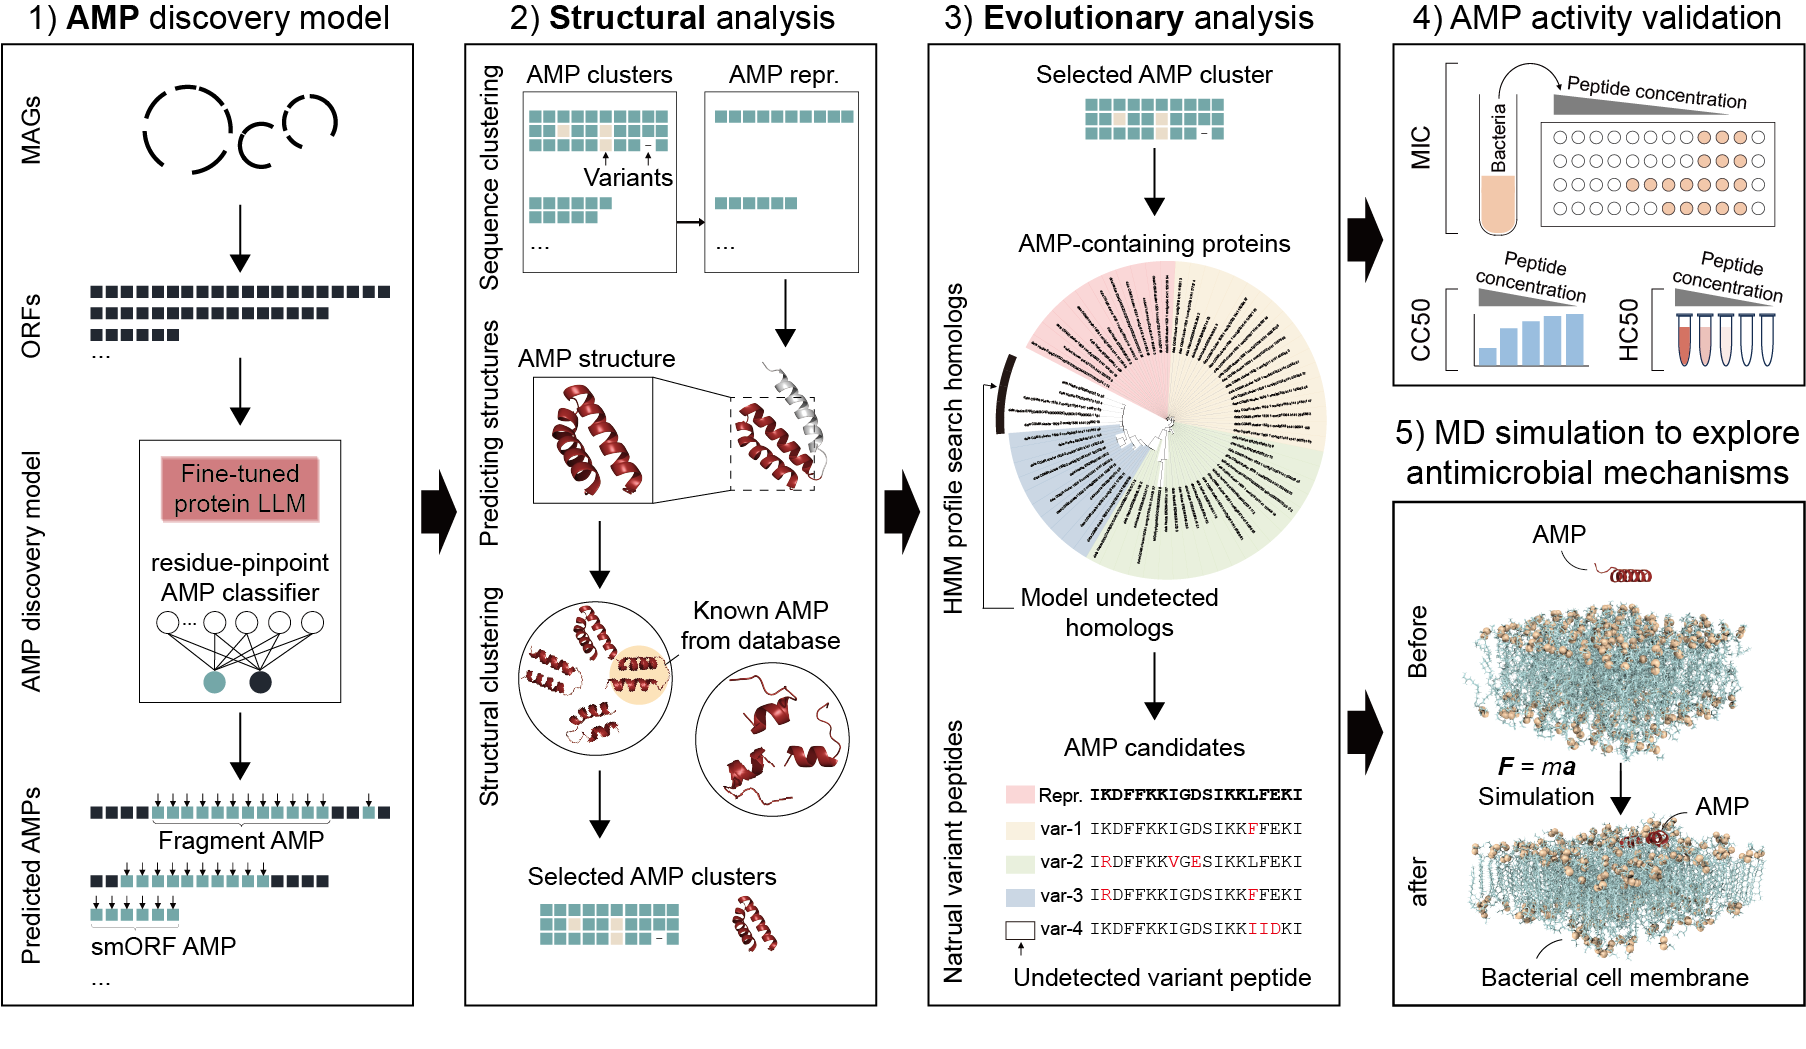
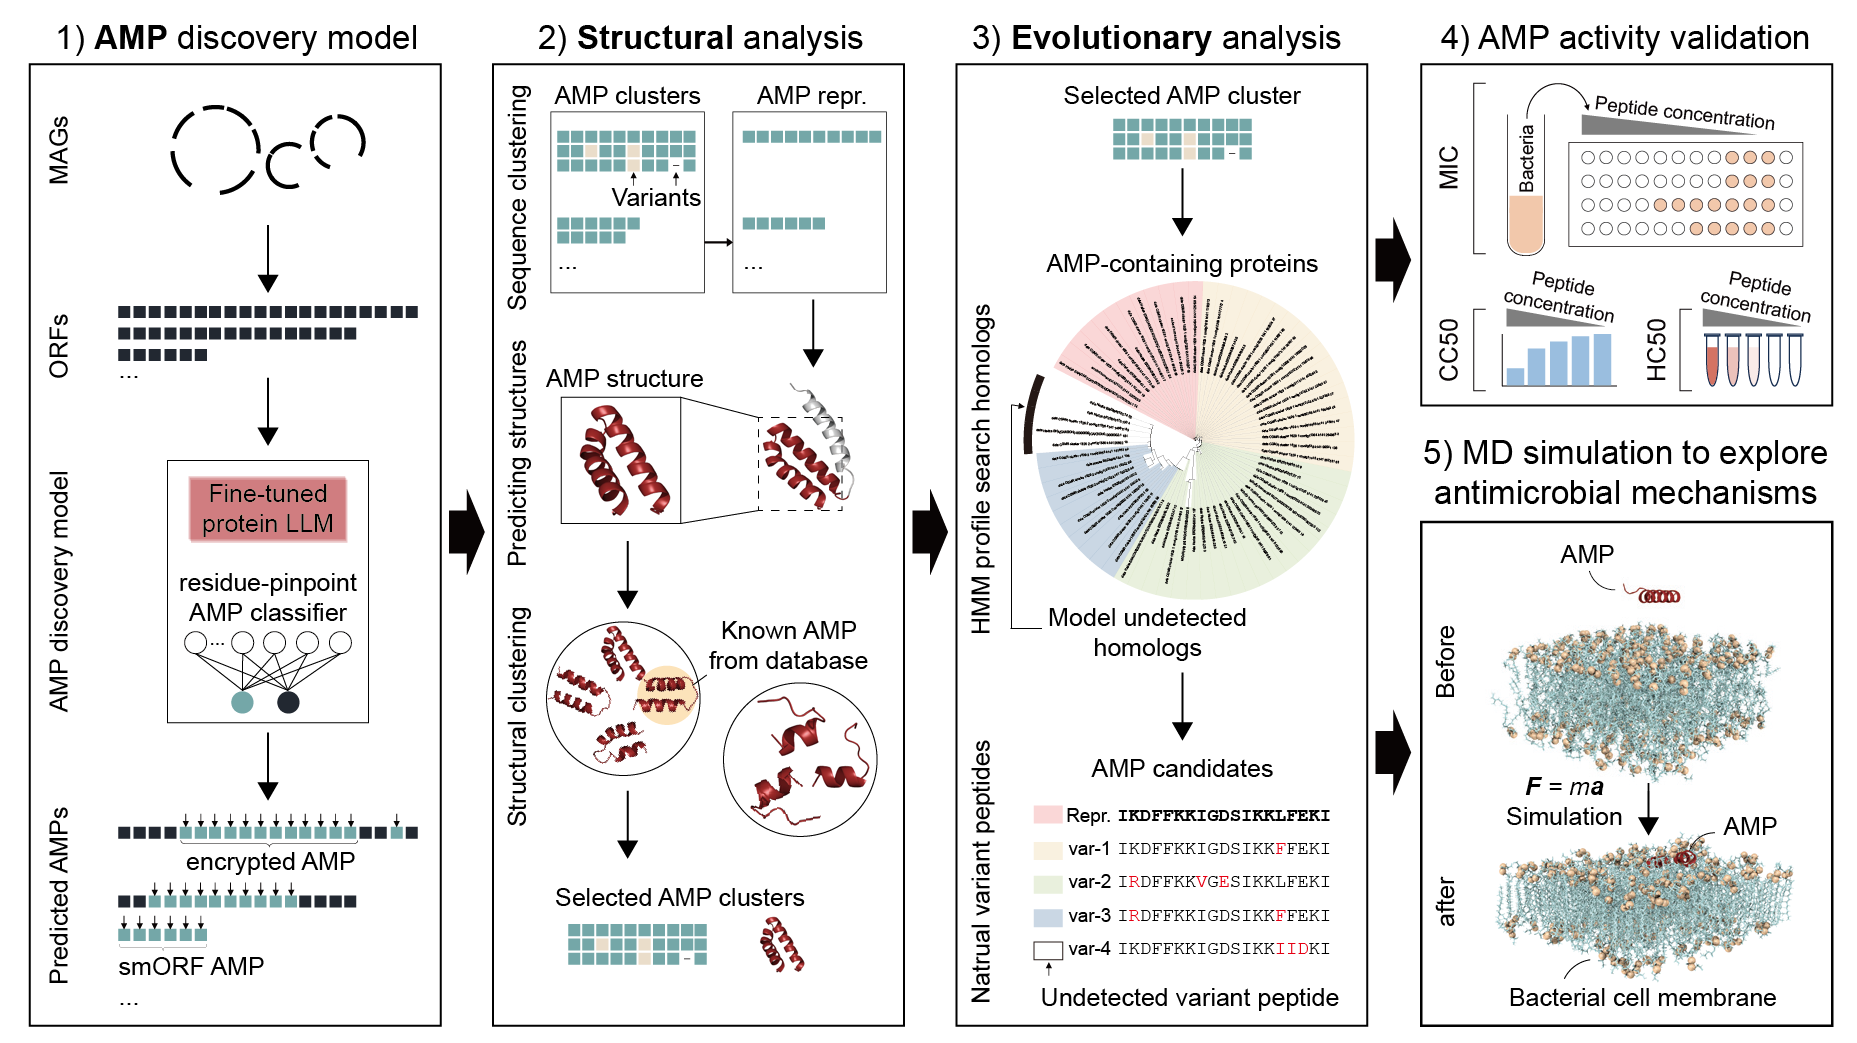
Updated data portal

Changed region(s): [[0.0, 0.0, 1.0, 1.0], [0.062, 0.1227, 0.093, 0.1534]]

diff --git a/README.md b/README.md
@@ -6,6 +6,10 @@ This repository contains the custom code for **AMP-SEMiner**, a robust and compr
 
 ![Schematic diagram of the AMP-SEMiner framework](Figure_1.png)
 
+## Data Portal
+
+The AMPs identified using AMP-SEMiner are available through our dedicated data portal, [MAG-AMPome](http://mag-ampome.aigene.org.cn) (http://mag-ampome.aigene.org.cn). Visit the portal to access this comprehensive resource of antimicrobial peptides.
+
 ## Environment
 AMP-SEMiner is run on Python 3.10 and PyTorch 2.1.2. You can build a conda environment for AMP-SEMiner using this [script](https://github.com/zjlab-BioGene/AMP-SEMiner/blob/main/scripts/env_install.sh).
 
